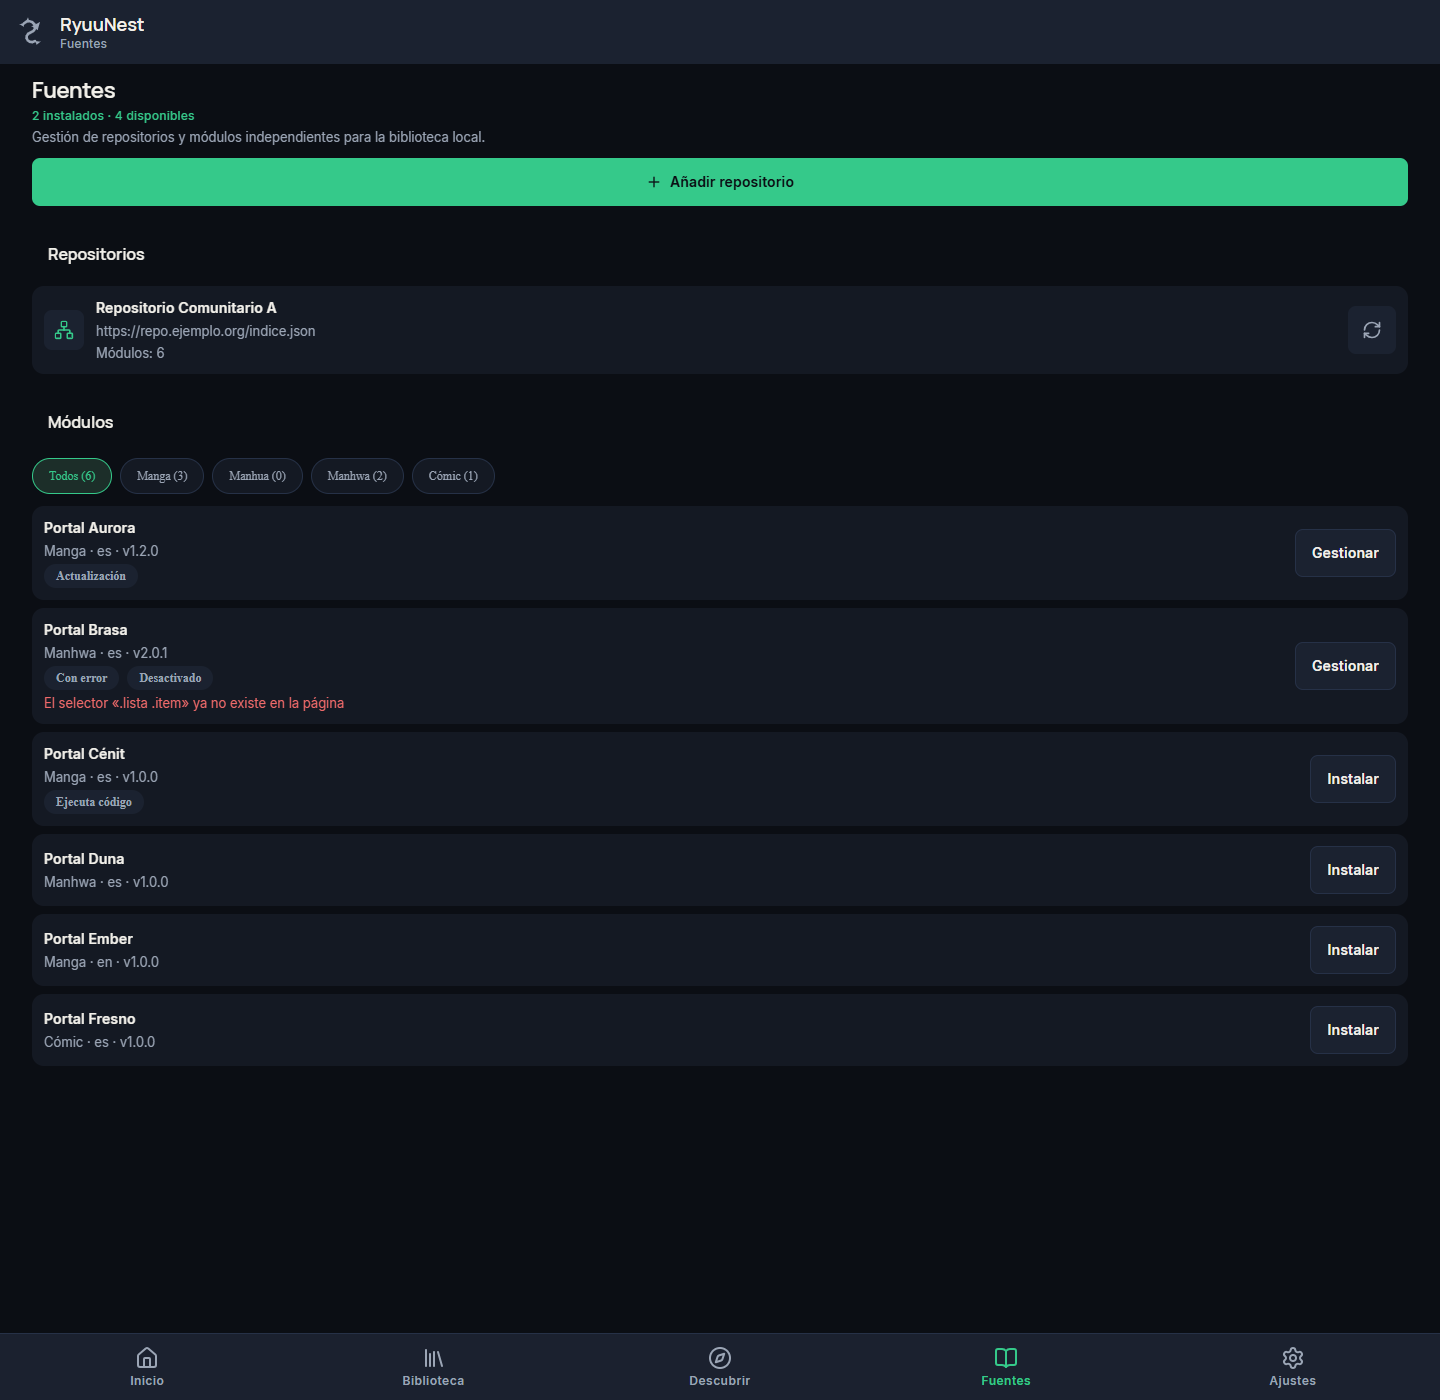
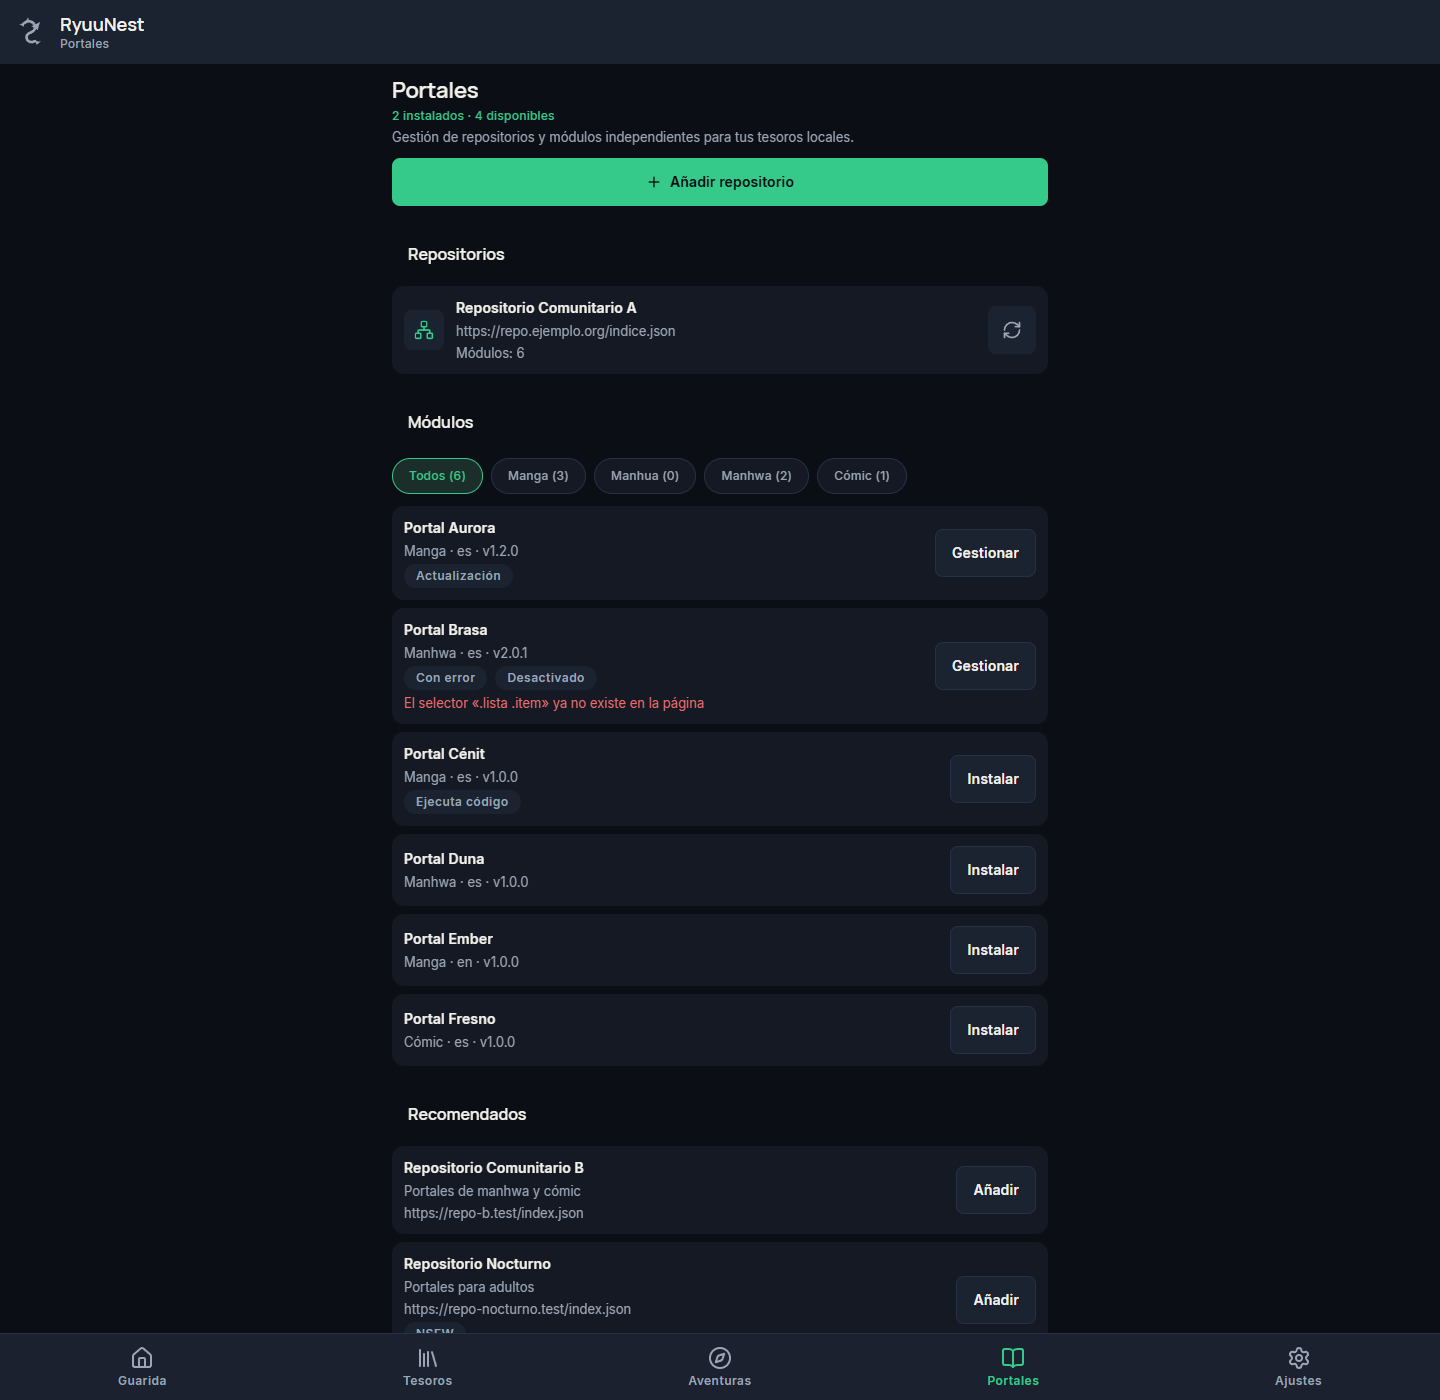
docs: RNF-5 y RF-2b para Recomendados, P-178 y F44 en todo (F44)

diff --git a/MEMORY.md b/MEMORY.md
@@ -205,6 +205,7 @@ Memoria del proyecto para cualquier agente. Solo hitos, decisiones vigentes y pe
 - **P-172 Tesoros F92/F93/F94 (humano 2026-11-19):** (1) F92: las tres filas de chips (Todo/Leyendo/Carpetas, tipo/fuente/orden/NSFW y categorías) se fusionan en un solo carrusel; se retira la clave i18n `library.section.categories`. (2) F93: «Gestionar» es una **hoja**, no una ruta; Favoritos sale sin acciones y Gemas no sale. `rename`/`remove` ya existían en `Folders`; se añade `setTags`. (3) F94: color nuevo `nsfwColor = #FF6B1A` (más rojizo que el ámbar `progress` para no confundirlo con el avance; 3:1 sobre `bg`/`surface`/`elevated`). **Excepción a V1** de `DESIGN_RULES.md`, aprobada por el humano. Es una constante exportada, **no** un 14.º token de `ThemeColors` (SPEC §11.9 fija 13): si debe ser semántico hay que tocar SPEC y `DESIGN.md`. En `LibraryCard` no existía marca NSFW, así que se añade la insignia «18+» (el color nunca va solo). (4) Anti-conflictos: tres ramas desde `master`, PR a `master`, fusión en orden F92 → F93 → F94; `graphify-out/` solo viaja en el PR de F92 (y se regenera tras fusionar) porque es lo único que chocaba.
 - **P-173 `nsfw` pasa a token semántico (humano 2026-11-19; reemplaza el punto (3) de P-172):** `ThemeColors` tiene ahora **14** colores: `nsfw = #FF6B1A` (borde de las series NSFW, siempre con la insignia «18+»). Se actualizan SPEC §11.9, el front-matter de `DESIGN.md` y sus pruebas (`colors`, `design-md`, `theme`, `aa-pairs`); se retira la constante `nsfwColor`. La excepción a V1 de `DESIGN_RULES.md` sigue aprobada.
 - **P-174 Ficha F95/F96 (humano 2026-11-19; reemplaza P-170 en lo del corazón):** (1) el **corazón** de la ficha guarda en **Favoritos** (carpeta del sistema); si ya estaba, la deja en **Gemas** (sin carpeta), no la elimina ni toca el progreso (`Favorites.toggleHeart`/`isHearted`, núcleo). (2) El botón «Carpeta» pasa a llamarse **«Guardar»** y abre una hoja para elegir **una** carpeta (mueve, D-12); sin carpetas propias, el guardado por defecto es **Gemas** (F96). (3) Verificación nativa solo con agent-device en el S25. (4) **F97:** el borde naranja en Aventuras sale de `nsfw` o de las etiquetas hentai/seinen/josei en `SeriesSummary.badges`; hoy solo «Seinen» existe en los datos de ejemplo (hentai y josei no aparecen en ningún módulo), la regla es por datos.
+- **P-178 F44 «Recomendados» (humano 2026-11-20; resuelve la pregunta 1 de `tasks/Analisis.md` §8):** `recommended.json` en el repo oficial `RyuuNest-Models`, misma ruta raw que su `index.json` (`RECOMMENDED_URL` en `apps/mobile/src/data/officialRepo.ts`). Formato: **una lista JSON** de `{ name, indexUrl, description, nsfw }` (`indexUrl` HTTPS); una entrada rota se descarta con aviso y solo un archivo que no sea lista es inválido (`parseRecommended`/`fetchRecommended` en el núcleo, `repo/recommended.ts`). Se descarga **solo al abrir Portales o al pulsar «Actualizar recomendados»**, nunca en segundo plano; sin red → «Sin conexión» sin bloquear. «Añadir» abre la hoja «Añadir repositorio» con la URL rellena (el usuario confirma; nada se instala solo). NSFW con la insignia «NSFW». SPEC: **RNF-5** con la excepción explícita y **RF-2b** nuevo. La web de Expo usa recomendados de ejemplo (sin red, P-169); `apps/web` usa el servicio real.
 
 ## 4. Pendientes y sugerencias
 
@@ -216,7 +217,7 @@ Memoria del proyecto para cualquier agente. Solo hitos, decisiones vigentes y pe
 - **P-177 F86/F88 (humano 2026-11-20):** gana la **variante B** de F86 (barra + lupa 48×48; botón de filtros solo con icono, siempre visible junto a la lupa) con el **selector de módulo movido a la cabecera, solo en Aventuras** (F88; `moduleSwitcherStore` + `HeaderModuleSwitcher`). Las variantes A y C siguen en la galería como referencia.
 - ✅ **P-170 (F95/F96, humano 2026-11-17):** «Guardar» añade a **Gemas**; no se crea «General». La etiqueta de F97 es **josei** (confirmado).
 - ❓ **F79:** el humano pidió que «Reanudar» se comporte distinto «vía la app» y entre web y móvil; falta precisar qué cambia en la web de Expo antes de implementar.
-- ❓ **F33:** aprobar F40 a F45 (`tasks/Analisis.md` §7), dar el formato y la URL del índice «Recomendados» y autorizar el cambio de RNF-5 en el SPEC. 🧍 Cerrar R1 cuando exista una actualización real de un módulo.
+- ❓ **F33:** aprobar F40 a F45 (`tasks/Analisis.md` §7). ~~Formato/URL de «Recomendados» y RNF-5~~ ✅ resuelto en P-178 (F44). 🧍 Cerrar R1 cuando exista una actualización real de un módulo.
 - 🧍 **Repetir F34.3 en el POCO F5 Pro** (solo se probó en el S25 Ultra) y recorrer ficha, lector y primer uso con zona segura y texto al 200 %.
 - ❓ **Tarea nueva (hallazgo de F34.3):** Inicio al 200 % del sistema recorta «Continuar la Aventura», el botón «Continuar cap. 41» y las insignias.
 - 🧍 **Definir el proceso Scrum** (ceremonias, artefactos, duraciones, roles y métricas) en una sesión aparte; a partir de ahora el proyecto se gestiona con Scrum.

diff --git a/docs/SPEC.md b/docs/SPEC.md
@@ -80,6 +80,7 @@ Sincronización entre dispositivos (v2), descargas sin conexión (v2), anime, li
 
 - **RF-1 (M)** La app se instala **sin módulos**. Mientras no haya ninguno, las pantallas muestran el estado vacío que lleva a "Añadir repositorio".
 - **RF-2 (M)** Añadir un repositorio por URL HTTPS. La app descarga y valida `index.json` y lo guarda como `repo`.
+- **RF-2b (S)** «Recomendados» (F44, P-178): Portales lista los repositorios del `recommended.json` del repo oficial (junto a su `index.json`; cada entrada `{ name, indexUrl, description, nsfw }`, las NSFW marcadas). Se descarga **solo al abrir Portales o al pulsar «Actualizar recomendados»**, nunca en segundo plano; sin red o con un archivo inválido muestra «sin conexión» sin bloquear la pantalla. «Añadir» abre «Añadir repositorio» con la URL rellena y exige confirmarlo (RF-2, RF-7): nada se instala solo.
 - **RF-3 (M)** Listar los módulos de un repo con nombre, tipo, idioma, marca NSFW, runtime (declarativo o script) y permisos.
 - **RF-4 (M)** Instalar un módulo con el flujo de la sección 7, con confirmación manual.
 - **RF-5 (M)** Activar, desactivar y desinstalar módulos. Mostrar el último error de cada módulo.
@@ -157,7 +158,7 @@ Sincronización entre dispositivos (v2), descargas sin conexión (v2), anime, li
 | RNF-2 | Memoria del proceso | Sin cierres por memoria en la MiBox 4 (2 GB) leyendo 60 imágenes seguidas; presupuesto medido y registrado en la Fase 0 |
 | RNF-3 | Fluidez | Desplazamiento de listas sin pérdidas visibles de cuadros en el teléfono; en TV, navegación con foco sin retrasos perceptibles |
 | RNF-4 | Almacenamiento | Caché de imágenes con tope configurable (por defecto menor en TV) y botón para vaciarla |
-| RNF-5 | Privacidad | Sin telemetría, sin cuentas, sin servicios de terceros; los datos solo salen del dispositivo por exportación manual. Fuentes e iconos van empaquetados: nunca se cargan desde un CDN (tampoco en la web) |
+| RNF-5 | Privacidad | Sin telemetría, sin cuentas, sin servicios de terceros; los datos solo salen del dispositivo por exportación manual. Fuentes e iconos van empaquetados: nunca se cargan desde un CDN (tampoco en la web). Peticiones de red permitidas: los repositorios y módulos que el usuario añade o instala y, como **única excepción** de primera parte, `recommended.json` del repo oficial (RF-2b), solo al abrir Portales o a petición del usuario y nunca en segundo plano |
 | RNF-6 | Seguridad | Modelo de la sección 7; nada se instala sin confirmación |
 | RNF-7 | Accesibilidad | Contraste WCAG AA; áreas táctiles de al menos 48 × 48 dp (con `hitSlop` cuando el elemento visible es menor, como los chips de 36 px o las insignias de 24 px); etiquetas accesibles en botones con icono; estados nunca solo por color; `prefers-reduced-motion` |
 | RNF-8 | Resiliencia | Un módulo roto, lento o bloqueado no tumba la app: tiempo límite, errores contenidos y reintento manual |

diff --git a/tasks/todo.md b/tasks/todo.md
@@ -294,10 +294,13 @@ Dep: F33 · M · `apps/web/*`
 - [x] Aprobada (humano, 2026-11-19). Web: portada en las tarjetas de Descubrir (2:3, `discover-card-cover`); la ficha web ya mostraba portada y sinopsis (F25)
 - Verif: ✅ Playwright 426/1440 px (`apps/web/tests/e2e/discover.cjs`) + Vitest web
 
-### F44 «Recomendados» como índice remoto (propuesta de F33, sin aprobar) `[BE/FE · Alta · N4]`
+### F44 «Recomendados» como índice remoto `[BE/FE · Alta · N4]`
 
-- [ ] ❓ Dar el formato y la URL del índice y autorizar el cambio de **RNF-5** en el SPEC (sin servidor propio ni terceros) antes de empezar
-- Verif: según la decisión
+- [x] Decisión del humano (2026-11-20, P-178): `recommended.json` en `RyuuNest-Models` junto a `index.json`, lista de `{ name, indexUrl, description, nsfw }`; SPEC **RNF-5** con la excepción y **RF-2b** nuevo
+- [x] Núcleo: `parseRecommended`/`fetchRecommended` (`packages/core/src/repo/recommended.ts`), tolerancia por entrada como T38, fixture guardado
+- [x] Portales (móvil y `apps/web`): sección «Recomendados» con cargando / lista / sin conexión / vacío y «Actualizar recomendados»; se descarga solo al abrir Portales o al pulsarlo; «Añadir» abre «Añadir repositorio» con la URL rellena (confirmación manual); NSFW con insignia. Estados en la galería (vista de Portales)
+- [ ] 🧍 Fusionar el PR de `recommended.json` en `RyuuNest-Models` y verificar en el S25 (agent-device) la lista real
+- Verif: ✅ Vitest (núcleo `recommended.test.ts`; móvil `sourcesData`/`sourcesFlow`/`sampleSourcesService`) · ✅ Playwright 426/1440 px (`apps/mobile/tests/e2e/sources.cjs`, `apps/web/tests/e2e/sources.cjs` con fixture) · ⏳ nativo sin verificar
 
 ### F83 Contrato de módulo: paginación y orden «más reciente» declarados `[BE · Intermedia · N3]`
 
